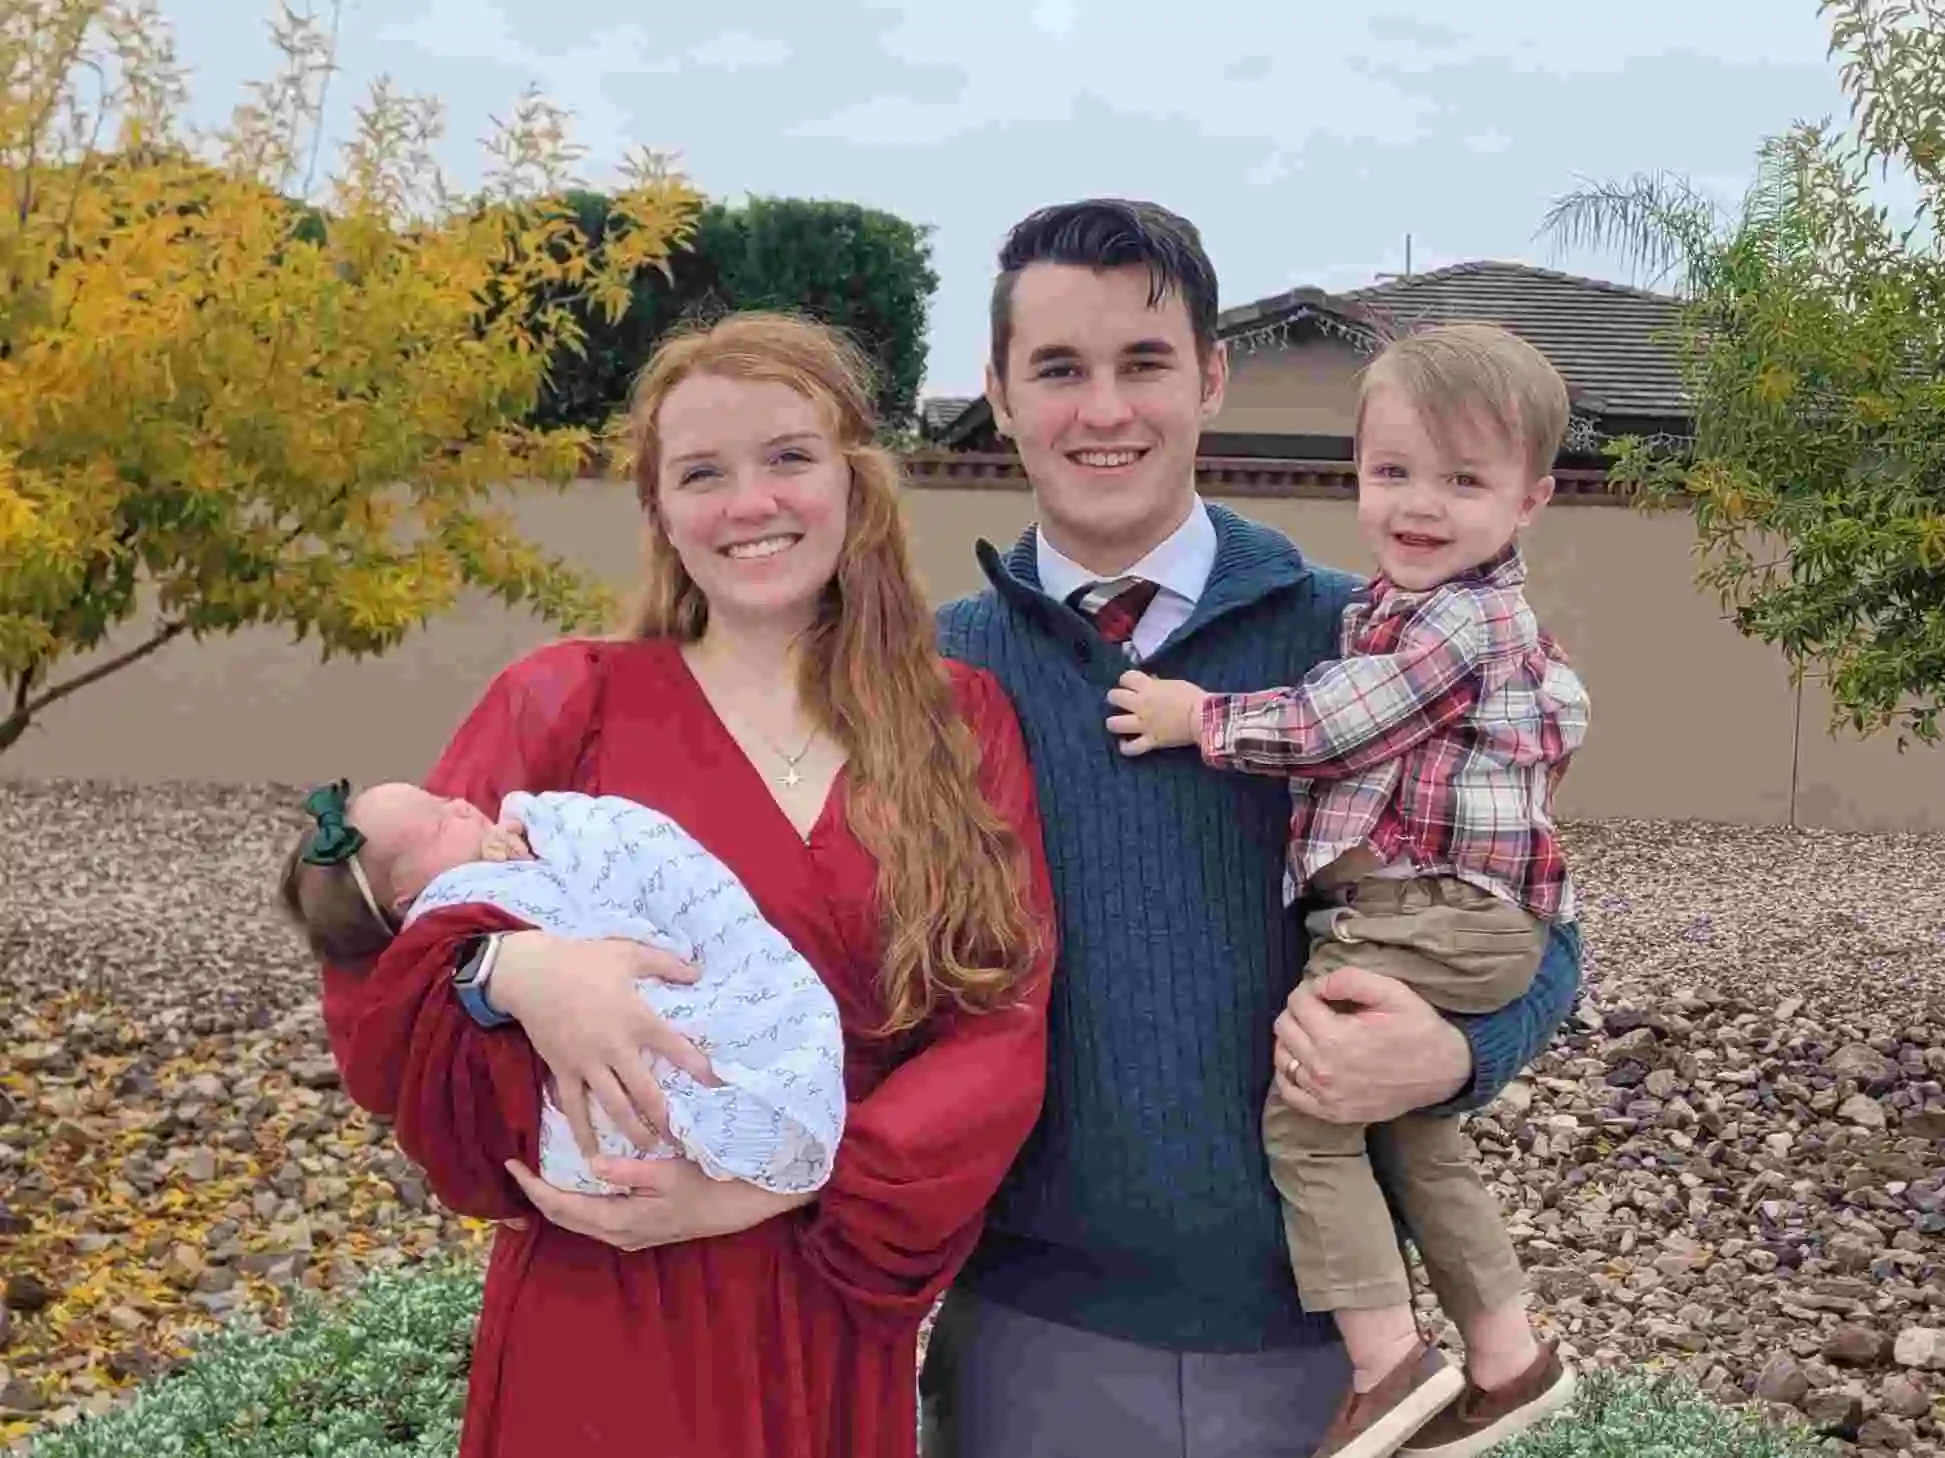
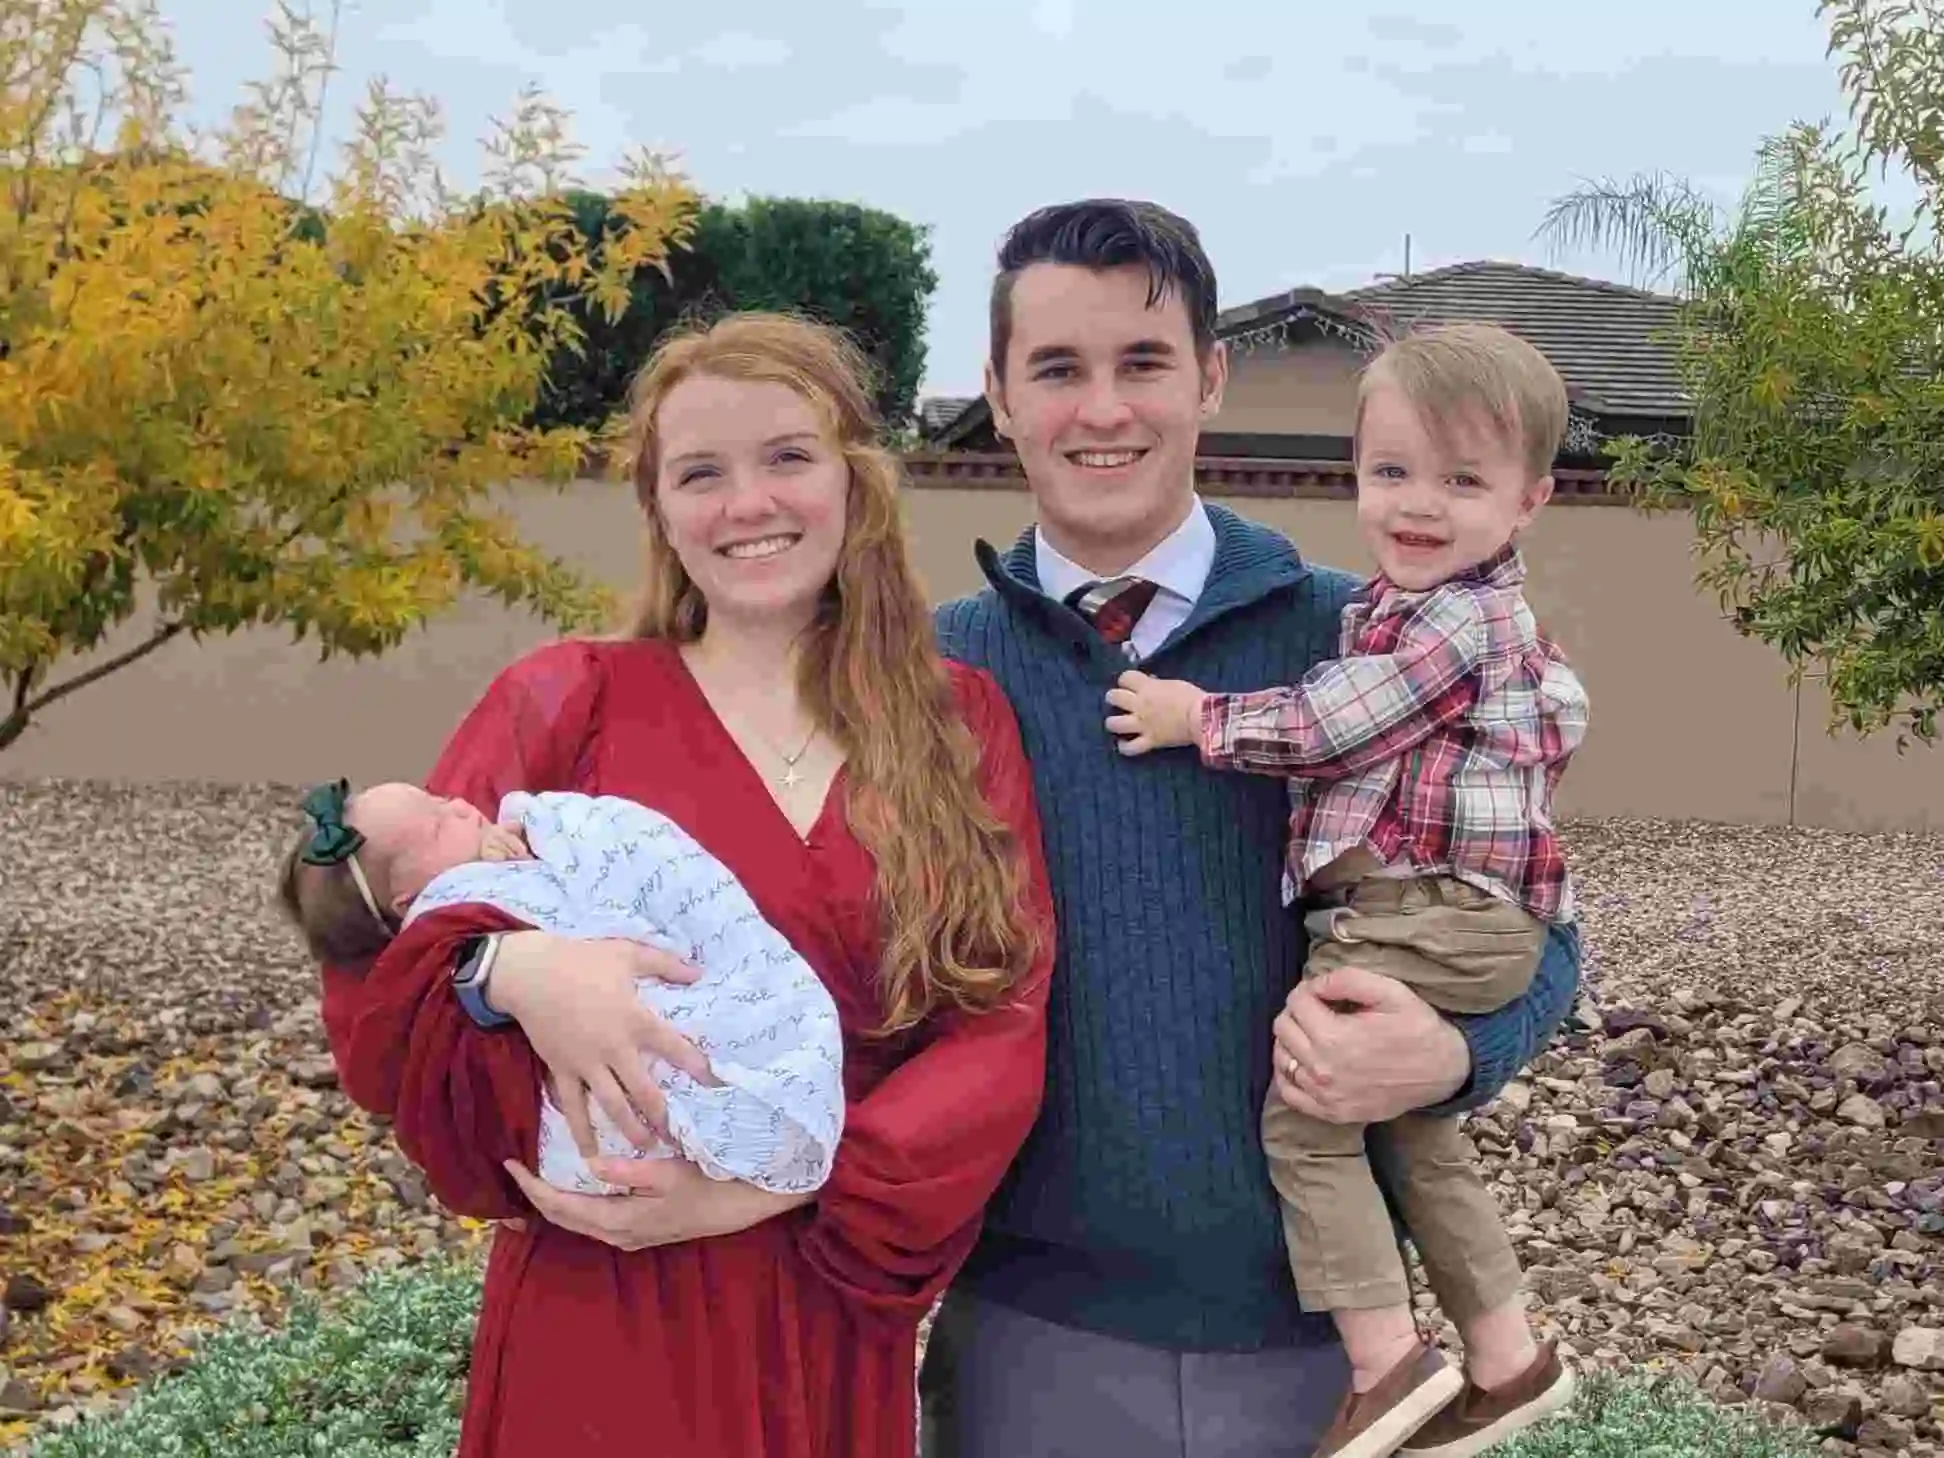
Update profile photo and navigation styles

diff --git a/wdd230/index.html b/wdd230/index.html
@@ -21,9 +21,12 @@
 </head>
 <body>
   <header>
-    <img src="images/profile-photo.webp" alt="Family Photo" width="140" height="108">
+    <picture class="profile">
+      <source media="(max-width: 500px)" srcset="images/profile-photo-small.webp" width="426" height="553">
+      <img src="images/profile-photo.webp" alt="Family Photo" width="1944" height="1458">
+    </picture>
     <h1>Pierce Cirks</h1>
-    <a id="hamburger" href="#"></a>
+    <a id="hamburger"></a>
   </header>
 
   <nav>
@@ -87,12 +90,12 @@
           <h4>Weather</h4>
           <p></p>
         </section>
-          <p>Visit Count: <span id="visitCount"></span></p>
+          <p>Page Visits: <span id="visitCount"></span></p>
       </section>
     </div>
 
     <div class="map">
-      <iframe src="https://www.google.com/maps/embed?pb=!1m18!1m12!1m3!1d106804.27820955934!2d-111.68976563546288!3d33.22369819859761!2m3!1f0!2f0!3f0!3m2!1i1024!2i768!4f13.1!3m3!1m2!1s0x872a4c65d79a826d%3A0x222c5c0cfe71e0e0!2sQueen%20Creek%2C%20AZ!5e0!3m2!1sen!2sus!4v1706765333757!5m2!1sen!2sus" width="1200" height="450" style="border:0;" allowfullscreen="" loading="lazy" referrerpolicy="no-referrer-when-downgrade"></iframe>
+      <iframe title="Queen Creek" src="https://www.google.com/maps/embed?pb=!1m18!1m12!1m3!1d106804.27820955934!2d-111.68976563546288!3d33.22369819859761!2m3!1f0!2f0!3f0!3m2!1i1024!2i768!4f13.1!3m3!1m2!1s0x872a4c65d79a826d%3A0x222c5c0cfe71e0e0!2sQueen%20Creek%2C%20AZ!5e0!3m2!1sen!2sus!4v1706765333757!5m2!1sen!2sus" width="1200" height="450" style="border:0;" allowfullscreen="" loading="lazy" referrerpolicy="no-referrer-when-downgrade"></iframe>
     </div>
   </main>
 

diff --git a/wdd230/styles/base.css b/wdd230/styles/base.css
@@ -14,21 +14,27 @@ header {
     color: white;
     display: flex;
     justify-content: center;
+    align-items: center;
     padding: 1rem;
 }
 
-header img {
-    max-width: 140px;
+.profile {
+    max-width: 150px;
+    padding: 1rem;
+}
+
+.profile img {
+    max-width: 100%;
     height: auto;
     padding: 0.5rem;
 }
 
 #hamburger {
     position: absolute;
-    top: 10rem;
+    top: 13rem;
     right: 1rem;
     font-size: 36px;
-    color: black;
+    color: white;
     padding: 0.5rem;
 	text-decoration: none;
 }
@@ -56,6 +62,7 @@ nav {
     color: white;
     text-decoration: none;
     font-weight: 700;
+    transition-duration: 0.5s;
 }
 
 .navigation li a:hover {
@@ -130,6 +137,7 @@ h2 {
     font-size: 20px;
     font-weight: bold;
     text-align: center;
+    margin: 2rem 0;
 }
 
 h3 {

diff --git a/wdd230/styles/larger.css b/wdd230/styles/larger.css
@@ -17,6 +17,10 @@
         padding: 1rem;
     }
 
+    .profile {
+        max-width: 200px;
+    }
+
     .hero {
         margin: 0.5rem;
     }
